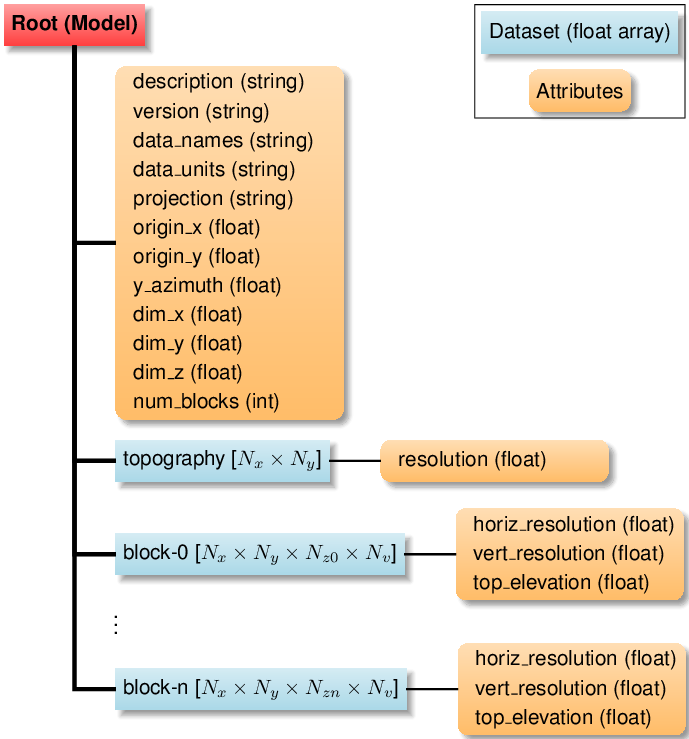
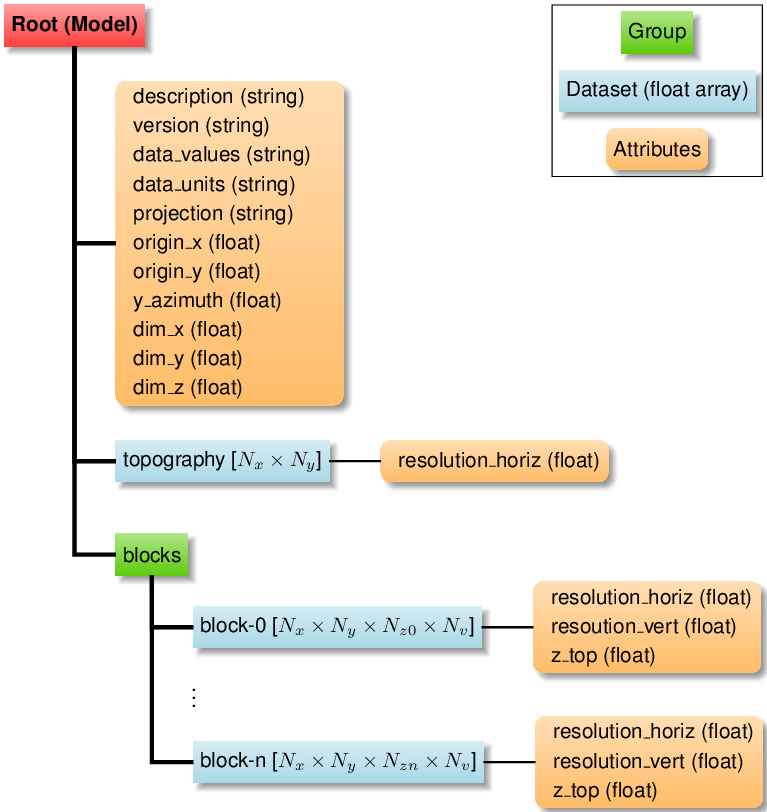
Update HDF5 layout in documentation.

diff --git a/docs/figs/hdf5layout.tex b/docs/figs/hdf5layout.tex
@@ -45,6 +45,12 @@ font={\bfseries},
   bottom color=ltblue,
   anchor=west]
   
+\tikzstyle{group} = [
+  default,
+  top color=ltgreen!50!white,
+  bottom color=ltgreen,
+  anchor=west]
+  
 \tikzstyle{subset-right} = [
   xshift=2em]
 
@@ -63,7 +69,7 @@ font={\bfseries},
     \begin{attributes}
     \item description (string)
     \item version (string)
-    \item data\_names (string)
+    \item data\_values (string)
     \item data\_units (string)
     \item projection (string)
     \item origin\_x (float)
@@ -72,7 +78,6 @@ font={\bfseries},
     \item dim\_x (float)
     \item dim\_y (float)
     \item dim\_z (float)
-    \item num\_blocks (int)
     \end{attributes}
   };
   \draw[arrowto] (model.south) |- (model-attrs.west);
@@ -81,42 +86,45 @@ font={\bfseries},
   \node (topography) [below=of model-attrs.west, dataset, yshift=-8em] {topography [$N_x \times N_y$]};
   \node (topography-attrs) [right=of topography.east, attributes] {%
     \begin{attributes}
-    \item resolution (float)
+    \item resolution\_horiz (float)
     \end{attributes}
   };
   \draw[arrowto] (model.south) |- (topography.west);
   \draw[connector] (topography.east) -- (topography-attrs.west);
 
+  \node (blocks) [below=of topography.west, group, yshift=-2.0em] {blocks};
+  
   % Block 0
-  \node (block-0) [below=of topography.west, dataset, yshift=-2.0em] {block-0 [$N_x \times N_y \times N_{z0} \times N_v$]};
+  \node (block-0) [below=of blocks.south, dataset, subset-right] {block-0 [$N_x \times N_y \times N_{z0} \times N_v$]};
   \node (block-0-attrs) [right=of block-0.east, attributes] {%
     \begin{attributes}
-    \item horiz\_resolution (float)
-    \item vert\_resolution (float)
-    \item top\_elevation (float)
+    \item resolution\_horiz (float)
+    \item resoution\_vert (float)
+    \item z\_top (float)
     \end{attributes}
   };
-  \draw[arrowto] (model.south) |- (block-0.west);
+  \draw[arrowto] (blocks.south) |- (block-0.west);
   \draw[connector] (block-0.east) -- (block-0-attrs.west);
 
   \node [below=of block-0.west, yshift=0.5em] {\vdots};
-  
+  \draw[arrowto] (model.south) |- (blocks.west);  
 
   % Block n
   \node (block-n) [below=of block-0.west, dataset, yshift=-4.0em] {block-n [$N_x \times N_y \times N_{zn} \times N_v$]};
   \node (block-n-attrs) [right=of block-n.east, attributes] {%
     \begin{attributes}
-    \item horiz\_resolution (float)
-    \item vert\_resolution (float)
-    \item top\_elevation (float)
+    \item resolution\_horiz (float)
+    \item resolution\_vert (float)
+    \item z\_top (float)
     \end{attributes}
   };
-  \draw[arrowto] (model.south) |- (block-n.west);
+  \draw[arrowto] (blocks.south) |- (block-n.west);
   \draw[connector] (block-n.east) -- (block-n-attrs.west);
 
 
   % Legend
   \matrix [draw,below left, row sep=0.8em] at (current bounding box.north east) {
+    \node [group, legend] {Group}; \\
     \node [dataset, legend] {Dataset (float array)}; \\
     \node [attributes, legend] {Attributes}; \\
   };
